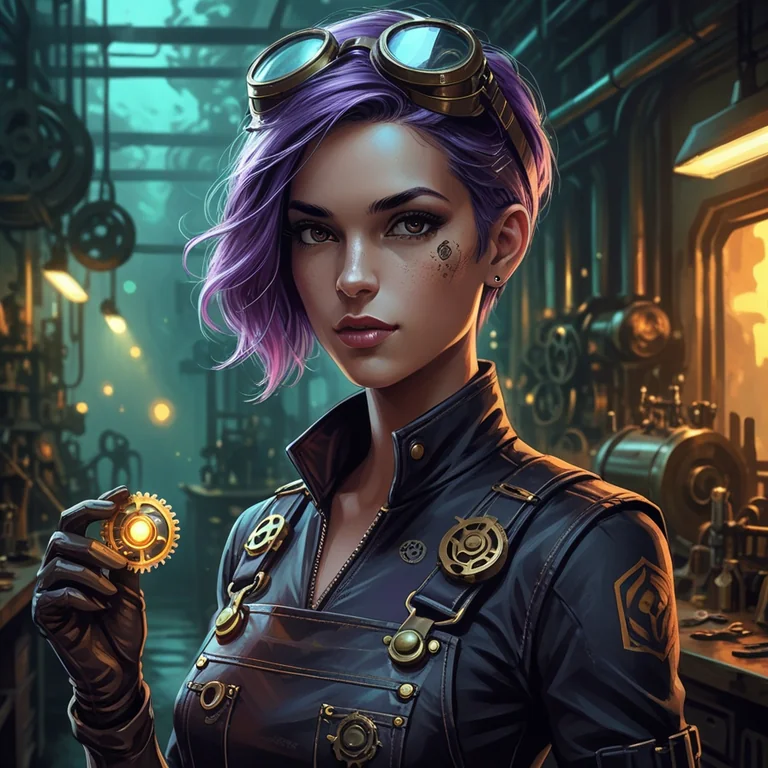
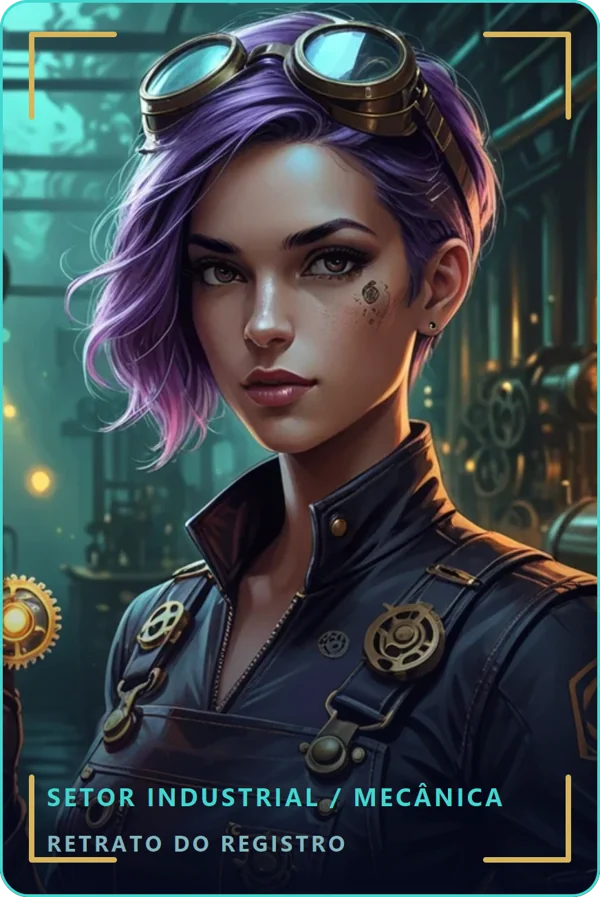
feat: Habitantes as HUD fichas with new portraits and registro/mora/atua/situacao texts

diff --git a/css/panel.css b/css/panel.css
@@ -31,25 +31,31 @@
 .tag--live { background: rgb(66 214 208 / .15); color: var(--cyan); }
 .tag[data-cat="Pedido de ajuda"] { background: rgb(216 180 90 / .2); color: var(--gold); }
 
-/* Habitantes */
-.grid--cards { list-style: none; margin: 0; padding: 0; display: grid; gap: var(--space-4); grid-template-columns: repeat(auto-fill, minmax(240px, 1fr)); }
-.card { position: relative; overflow: hidden; border: 1px solid var(--line); border-radius: var(--radius); background: rgb(37 37 107 / .35); transition: border-color .3s, translate .3s var(--ease-out); }
-.card:hover, .card:focus-visible { border-color: var(--cyan); translate: 0 -4px; }
-.card__media { position: relative; margin: 0; aspect-ratio: 4 / 5; background: linear-gradient(160deg, var(--deep), var(--violet)); }
-.card__media img { display: block; width: 100%; height: 100%; object-fit: cover; }
-.card__media img.is-missing { visibility: hidden; }
-.card__scan { position: absolute; inset: 0 0 auto; height: 3px; background: var(--cyan); box-shadow: var(--glow-cyan); opacity: 0; }
-.card:hover .card__scan, .card:focus-visible .card__scan { opacity: 1; animation: card-scan 1.2s var(--ease-out) forwards; }
-@keyframes card-scan { from { top: 0; } to { top: 100%; opacity: 0; } }
-.card__body { padding: var(--space-3); }
-.card__body h3 { font-size: 1.15rem; margin: var(--space-2) 0 0; }
-.card__role { margin: 0 0 var(--space-2); color: var(--gold); font-weight: 600; font-size: .85rem; }
-.card__body p { margin: 0; font-size: .9rem; color: var(--text-dim); }
-.sheet { display: grid; grid-template-columns: 1fr 1fr; gap: var(--space-2); margin: var(--space-3) 0 0; padding-top: var(--space-2); border-top: 1px dashed var(--line); font-size: .8rem; max-height: 0; opacity: 0; overflow: hidden; transition: max-height .4s, opacity .4s; }
-.card:hover .sheet, .card:focus-visible .sheet { max-height: 120px; opacity: 1; }
-.sheet dt { color: var(--cyan); text-transform: uppercase; letter-spacing: .1em; font-size: .65rem; }
-.sheet dd { margin: 0; }
-@media (hover: none) { .sheet { max-height: none; opacity: 1; } }
+/* Habitantes: ficha em HUD, mesmo desenho da caixa de transmissões */
+.habs { display: flex; flex-direction: column; align-items: center; justify-content: center; gap: var(--space-3); }
+.habs__stage { width: min(100%, 980px); }
+.ficha { position: relative; border: 1px solid rgb(66 214 208 / .55); background: linear-gradient(180deg, rgb(8 13 43 / .92), rgb(8 13 43 / .8)); backdrop-filter: blur(8px); box-shadow: 0 0 24px rgb(66 214 208 / .22), inset 0 0 0 1px rgb(66 214 208 / .08); }
+.ficha::before, .ficha::after { content: ''; position: absolute; width: 14px; height: 14px; border: 2px solid var(--cyan); filter: drop-shadow(var(--glow-cyan)); }
+.ficha::before { top: -2px; right: -2px; border-left: 0; border-bottom: 0; }
+.ficha::after { bottom: -2px; left: -2px; border-right: 0; border-top: 0; }
+.ficha__head { display: flex; justify-content: space-between; gap: 1rem; padding: .55rem 1rem; border-bottom: 1px solid rgb(66 214 208 / .3); background: rgb(66 214 208 / .1); font: 700 .68rem/1 var(--font-hud); letter-spacing: .22em; text-transform: uppercase; color: var(--cyan); }
+.ficha__head span { color: var(--text-dim); font-weight: 500; white-space: nowrap; }
+.ficha__main { display: grid; grid-template-columns: minmax(0, 260px) 1fr; gap: clamp(16px, 3vw, 32px); padding: clamp(14px, 2.4vw, 26px); }
+.ficha__foto { margin: 0; aspect-ratio: 2 / 3; align-self: start; }
+.ficha__foto img { display: block; width: 100%; height: 100%; object-fit: cover; }
+.ficha__reg { margin: 0; color: var(--gold); font: 700 .72rem/1 var(--font-hud); letter-spacing: .24em; text-transform: uppercase; }
+.ficha__info h3 { margin: .4rem 0 0; font: 700 clamp(1.6rem, 3.4vw, 2.4rem)/1.1 var(--font-title); }
+.ficha__role { margin: .35rem 0 0; color: var(--text); font-weight: 600; }
+.ficha__dados { display: grid; grid-template-columns: 1fr 1fr; gap: var(--space-2); margin: var(--space-3) 0; }
+.ficha__dados div { padding: .55rem .75rem; border: 1px solid var(--line); background: rgb(37 37 107 / .3); }
+.ficha__dados dt, .ficha__lbl { margin: 0; color: var(--cyan); font: 700 .66rem/1 var(--font-hud); letter-spacing: .22em; text-transform: uppercase; }
+.ficha__dados dd { margin: .35rem 0 0; font-weight: 600; }
+.ficha__lbl--gold { margin-top: var(--space-3); color: var(--gold); }
+.ficha__txt { margin: .35rem 0 0; color: var(--text); font-size: .95rem; }
+.ficha__mural { display: inline-block; margin-top: var(--space-3); color: var(--gold); font: 700 .74rem/1 var(--font-hud); letter-spacing: .18em; text-transform: uppercase; text-decoration: none; }
+.ficha__mural:hover, .ficha__mural:focus-visible { text-decoration: underline; }
+.habs__nav { display: flex; flex-wrap: wrap; justify-content: center; gap: var(--space-2); }
+.habs .habs__btn { position: static; translate: none; font-size: .8rem; }
 
 /* Mural */
 .filters { display: flex; flex-wrap: wrap; gap: var(--space-2); margin-bottom: var(--space-4); }
@@ -130,7 +136,21 @@
   .panel { padding: 52px 0 calc(var(--lens-bottom) + 58px); }
   .panel__frame { width: 100%; height: 100%; max-height: none; border-radius: 0; }
   .map__node { padding: .2rem .35rem; letter-spacing: .06em; }
-  .panel--bare { padding: calc(var(--pad-t) + 52px) 8px calc(var(--lens-bottom) + 64px); }
+  .ficha__main { grid-template-columns: 96px 1fr; gap: 12px; padding: 12px; }
+  .ficha__head { font-size: .56rem; letter-spacing: .12em; }
+  .ficha__head b { overflow: hidden; text-overflow: ellipsis; white-space: nowrap; }
+  .ficha__dados { margin: 8px 0; }
+  .ficha__dados div { padding: .35rem .5rem; }
+  .ficha__dados dd { font-size: .78rem; margin-top: .25rem; }
+  .ficha__info h3 { font-size: 1.3rem; }
+  .ficha__role { font-size: .78rem; }
+  .ficha__lbl--gold { margin-top: 8px; }
+  .ficha__mural { margin-top: 8px; font-size: .66rem; }
+  .ficha__txt { font-size: .76rem; line-height: 1.4; }
+  .habs { justify-content: flex-start; gap: var(--space-2); }
+  .habs .map__hint { display: none; }
+  .habs__btn { font-size: .62rem; padding: .3rem .5rem; }
+  .panel--bare { padding: calc(var(--lens-top) + 66px) 8px calc(var(--lens-bottom) + 64px); }
   .map-stage { width: 100%; }
   .map__card { position: fixed; top: auto; bottom: calc(var(--lens-bottom) + 66px); left: 10px !important; right: 10px !important; translate: 0 0; width: auto; }
   .map__card .tx__text { font-size: .82rem; }

diff --git a/js/areas/habitantes.js b/js/areas/habitantes.js
@@ -1,31 +1,47 @@
-const card = h => `
-  <li class="card" tabindex="0">
-    <figure class="card__media">
-      <img src="${h.img}" alt="Retrato de ${h.nome}" loading="lazy">
-      <span class="card__scan" aria-hidden="true"></span>
-    </figure>
-    <div class="card__body">
-      ${h.naTaverna ? '<span class="tag tag--live">● na taverna agora</span>' : ''}
-      <h3>${h.nome}</h3>
-      <p class="card__role">${h.funcao}</p>
-      <p>${h.descricao}</p>
-      <dl class="sheet">
-        <div><dt>Setor</dt><dd>${h.setor}</dd></div>
-        <div><dt>Especialidade</dt><dd>${h.especialidade}</dd></div>
-      </dl>
+export const bare = true; // sem moldura de página: ficha em HUD
+
+const ficha = (h, i, total) => `
+  <article class="ficha" aria-labelledby="ficha-nome">
+    <header class="ficha__head"><b>Rede Náutilus / Registros de habitantes</b><span>Ficha ${String(i + 1).padStart(2, '0')} / ${String(total).padStart(2, '0')}</span></header>
+    <div class="ficha__main">
+      <figure class="ficha__foto"><img src="${h.img}" alt="Retrato de ${h.nome}"></figure>
+      <div class="ficha__info">
+        <p class="ficha__reg">Registro ${h.registro}</p>
+        <h3 id="ficha-nome">${h.nome}</h3>
+        <p class="ficha__role">${h.funcao} · ${h.especialidade}</p>
+        <dl class="ficha__dados">
+          <div><dt>Mora</dt><dd>${h.mora}</dd></div>
+          <div><dt>Atua</dt><dd>${h.atua}</dd></div>
+        </dl>
+        <p class="ficha__lbl">Quem é</p>
+        <p class="ficha__txt">${h.descricao}</p>
+        <p class="ficha__lbl ficha__lbl--gold">Situação atual</p>
+        <p class="ficha__txt">${h.situacao}</p>
+        <a class="ficha__mural" href="#mural">Ver mensagens no mural →</a>
+      </div>
     </div>
-  </li>`;
+  </article>`;
 
 export async function render(container) {
-  const habitantes = await fetch('data/habitantes.json').then(r => r.json());
+  const hs = await fetch('data/habitantes.json').then(r => r.json());
   container.innerHTML = `
-    <header class="panel__header">
-      <p class="eyebrow">Quem vive aqui</p>
-      <h2 id="panel-title">Habitantes</h2>
-      <p class="lead">Conheça as pessoas que fazem parte de Atlântida. Cada morador tem uma história, um talento e um papel na cidade. Passe o olhar sobre um card para escanear a ficha.</p>
-    </header>
-    <ul class="grid grid--cards" role="list">${habitantes.map(card).join('')}</ul>`;
+    <div class="habs">
+      <h2 id="panel-title" class="sr-only">Habitantes de Atlântida</h2>
+      <div class="habs__stage" aria-live="polite"></div>
+      <p class="map__hint">Navegue pelos nomes dos habitantes</p>
+      <div class="habs__nav" role="group" aria-label="Habitantes">
+        ${hs.map(h => `<button type="button" class="map__node habs__btn" data-id="${h.id}" aria-pressed="false">${h.nome}</button>`).join('')}
+      </div>
+    </div>`;
 
-  container.querySelectorAll('.card__media img').forEach(img =>
-    img.addEventListener('error', () => img.classList.add('is-missing'), { once: true }));
+  const stage = container.querySelector('.habs__stage');
+  const btns = [...container.querySelectorAll('.habs__btn')];
+  const show = (i, animate = true) => {
+    stage.innerHTML = ficha(hs[i], i, hs.length);
+    btns.forEach((b, j) => { b.classList.toggle('is-active', j === i); b.setAttribute('aria-pressed', j === i); });
+    if (animate && window.gsap && !matchMedia('(prefers-reduced-motion: reduce)').matches)
+      gsap.from(stage.firstElementChild, { opacity: 0, y: 10, duration: .35, ease: 'power2.out' });
+  };
+  btns.forEach((b, i) => b.addEventListener('click', () => show(i)));
+  show(0, false);
 }

diff --git a/tests/data.test.js b/tests/data.test.js
@@ -9,7 +9,7 @@ test('habitantes: ao menos 6, todos os campos preenchidos, ids únicos', () => {
   const hs = load('habitantes.json');
   assert.ok(hs.length >= 6);
   for (const h of hs) {
-    for (const k of ['id', 'nome', 'funcao', 'setor', 'especialidade', 'descricao', 'img']) {
+    for (const k of ['id', 'nome', 'funcao', 'setor', 'especialidade', 'descricao', 'img', 'registro', 'mora', 'atua', 'situacao']) {
       assert.ok(h[k], `${h.id ?? '?'} sem ${k}`);
     }
     assert.equal(typeof h.naTaverna, 'boolean');
